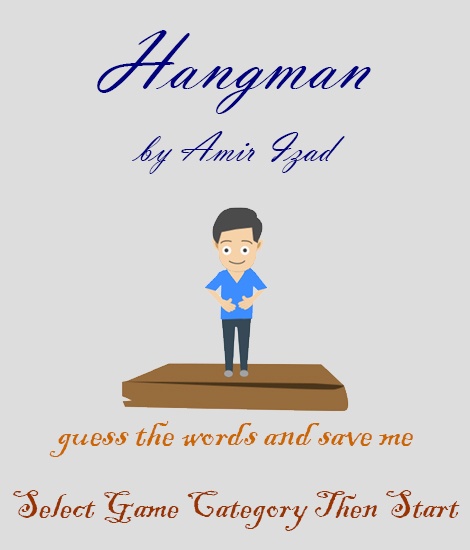
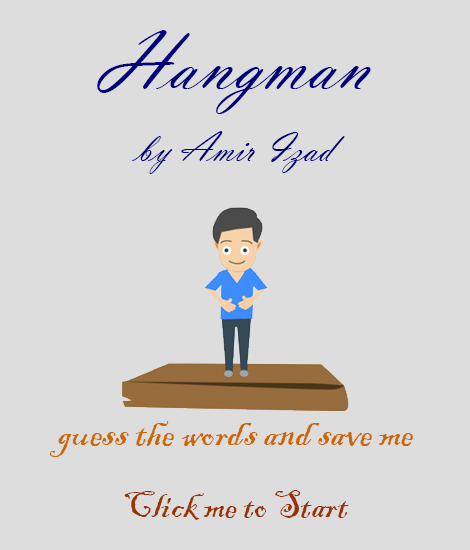
Correct files uploaded

Changed region(s): [[0.0298, 0.8964, 0.8043, 0.9582], [0.834, 0.8964, 0.983, 0.9582]]

diff --git a/assets/js/game.js b/assets/js/game.js
@@ -2,89 +2,85 @@ var HangMan = new Object();
 var curObjName = new String();
 
 $(window).on('load', function () {
-	curObjName = $('#category').val();
-	$('#curobj').val(curObjName);
+	
 	createObjects();
 
+	$('#hangmanintro').click(function(){
+		$('#wordpanel').removeClass('hide');
+	});
+	
 	//change the category
 	$('#category').change(function() {
-		curObjName = $('#category').val();
-		$('#curobj').val(curObjName);		
+		updateCat();	
 		loadObject(curObjName);
 	});
 
 	//Click the start button listener
-	$('#startbtn').on('click',function(event){
-		if($(this).val() === 'start'){
-			$("#curobj").val(curObjName);
-			$(this).html('Restart');
-			$(this).val('restart');			
-		}else{
-			clearObject(objectName);
-		}
-		updateObject(curObjName);
+	$('#restartbtn').click(function(event){
+		setObject(curObjName);
+		loadObject(curObjName);
 		event.preventDefault();		
 	});
 
-	$('#next').on('click',function(event){
+	$('#nextbtn').click(function(event){
 		updateObject(curObjName);
 		event.preventDefault();		
 	});	
 
+	
 	//keybord key listener
-	$(document).keyup(function(event){
-		var obj = HangMan[curObjName];
+	$(document).on('keyup', function(event){
 		var curLetter = event.key.toLowerCase();
-		obj.geusses.push(curLetter);
-		var guessStatus = updateGuesses(obj.word , curLetter , obj.falseg.length);
-		if(guessStatus){
-			obj.trueg.push(curLetter);
+		var obj = HangMan[curObjName];
+		if ( event.which < 65 || event.which > 90) {
+			legKey = false;
 		}else{
-			obj.falseg.push(curLetter);
+			for( i = 0 ; i < obj.guesses.length ; i++){
+				if(curLetter === obj.guesses[i]){legKey = false};
+			};
 		};
-		var status = updateStatus(obj.word, obj.trueg.length , obj.falseg.length);
-		if (status === 1){
-			obj.wins++;
-		}else if (status === 0){
-			obj.loses++;
-		};
-	}).keydown(function(event){
-		var curLetter = event.key.toLowerCase();
-		var usedLetter = false;
-		var obj = HangMan[curObjName];
-		if (!obj.started){
-	    usedLetter = true;
-		}else if ( event.which == 13 || event.which == 32) {
-		    usedLetter = true;
-		  }else{
-			  for(i=0;i<obj.geusses.length;i++){
-			  	if(curLetter === obj.geusses[i]){usedLetter = true};
-			  };
-			}
-
-	  if(usedLetter === true){
-	  	event.preventDefault();
-	  };		
-	});
+		if (legKey) {
+			var obj = HangMan[curObjName];
+			var curLetter = event.key.toLowerCase();
+			obj.guesses.push(curLetter);
+			var guessStatus = updateGuesses(obj.word , curLetter , obj.falseg.length);
+			if(guessStatus){
+				obj.trueg.push(curLetter);
+			}else{
+				obj.falseg.push(curLetter);
+			};
+			var status = updateStatus(obj.word, obj.trueg.length , obj.falseg.length);
+			if (status === 1){
+				obj.wins++;
+				$('#wins').html($('#wins').html()+1)
+			}else if (status === 0){
+				obj.loses++;
+				$('#loses').html($('#wins').html()+1)
+			};
+		}; 
+	});		
 });
 
 var namesArr = ['ava', 'Rey', 'Jona', 'John', 'Edgar', 'Brayan', 'Leonel', 'Garnet', 'Garland', 'Susannah'];
 var colorsArr = ['red', 'blue', 'aqua', 'lime', 'black', 'white', 'maroon', 'orange', 'purple', 'fuchsia'];
 var statesArr = ['ohio', 'iowa', 'idaho', 'texas', 'alaska', 'oregon', 'vermont', 'wyoming', 'delaware', 'maryland'];
-
-
+var categories = ['namesObj', 'colorsObj','statesObj'];
+var legKey = true;
 var gameObj = {
-	started : false,
-  words : [],
+	words : [],
 	category : "",
 	word : "",
 	wins : 0,
 	loses : 0,
 	lives : 10,
-	geusses : [],
+	guesses : [],
 	trueg : [],
 	falseg : []
+};
 
+function updateCat(){
+	curObjName = $('#category').val();
+	$('#curobj').val(curObjName);		
 }
 
 //Creating objects for all categories
@@ -95,89 +91,95 @@ function createObjects(){
 	HangMan.namesObj.words = namesArr;
 	HangMan.colorsObj.words = colorsArr;
 	HangMan.statesObj.words = statesArr;
-	updateObject(curObjName);	
+	setObject('namesObj');
+	setObject('colorsObj');
+	setObject('statesObj');
+	var catIndex = Math.floor(Math.random() * categories.length);
+	$('#category option:eq(' + catIndex + ')').prop('selected', true)
+	updateCat();
+	loadObject(categories[catIndex]);
 };
 
-function clearObject(objectName){
+function setObject(objectName){
 	var obj = HangMan[objectName];
-	obj.started = true;
-	obj.category = $( "#category option:selected" ).text();;
+	obj.category = $('#category option[value=' + objectName + ']').text();
 	obj.word = obj.words[Math.floor(Math.random() * obj.words.length)].toLowerCase();
 	obj.wins = 0;
 	obj.loses = 0;
 	obj.lives = 10;
-	obj.geusses = [];
+	obj.guesses = [];
 	obj.trueg = [];
 	obj.falseg = [];
-	loadObject(objectName);
 };
 
 //Updating the current category object to next word
 function updateObject(objectName){
 	var obj = HangMan[objectName];
-	obj.started = true;
-	obj.category = $( "#category option:selected" ).text();
 	obj.word = obj.words[Math.floor(Math.random() * obj.words.length)].toLowerCase();
+	obj.lives = 10;
+	obj.guesses = [];
+	obj.trueg = [];
+	obj.falseg = [];
 	loadObject(objectName);
 };
 
 //Loading the current category object into the page
-function loadObject(newCat){
-	var obj = HangMan[newCat];
-	if(obj.started){
-		$('#startbtn').html('Restart').val('restart');
-	}else{
-		$('#startbtn').html('Start').val('start');
-	};
+function loadObject(objectName){
+	var obj = HangMan[objectName];
 	$('#catlabel').html($( "#category option:selected" ).text());
 	$('#word').html(loadWord(obj.word));
+	$('#letters').empty();
 	$('#letters').html(obj.word.length);
 	$('#wins').html(obj.wins);
 	$('#loses').html(obj.loses);
 	$('#remlive').html(obj.lives);
+	$('#guesses').empty();
+	$('.ilive').removeClass('off');
+	$('.hang').addClass('hide');
 };
 
 //Loading the word into the word panel
-	function loadWord(word){
-		var span = "";
-		for (i=0;i<word.length;i++){
-			span = span + '<span>_</span>';
-		}
-		return span;
-	};
+function loadWord(word){
+	var span = "";
+	for (i=0;i<word.length;i++){
+		span = span + '<span>_</span>';
+	}
+	return span;
+};
 
 
-	function updateGuesses(word,letter,falseg){
-	 	var index = word.indexOf(letter);
-	 	if (index){
-			$('#word span:nth-child(' + (index + 1) + ')').html(letter);
-			var lettersucceeded = document.getElementById("lettersucceeded");
-			lettersucceeded.play();
-			return true;
-	 	}else{
-	 		var font = '<font>'+ letter +'</font>';
-	 		$('#guesses').append(font);
-	 		if ( falseg < 9 ) {$('#hangman' + falseg).css('display','block')};
-	 		$('#live' + falseg).addClass('off');
-	 		var letterfailed = document.getElementById("letterfailed");
-	 		letterfailed.play();
-	 		return false;
-	 	}
-	};
+function updateGuesses(word,letter,falseg){
+ 	var index = word.indexOf(letter);
+ 	legKey = true;
+ 	if (index < 0){
+ 		var font = '<font>'+ letter +'</font>';
+ 		$('#guesses').append(font);
+ 		if ( falseg < 9 ) {$('#hangman' + falseg).removeClass('hide')};
+ 		$('#live' + falseg).addClass('off');
+ 		var letterfailed = document.getElementById("letterfailed");
+ 		letterfailed.play();
+ 		return false;
+ 	}else{
+		$('#word span:nth-child(' + (index + 1) + ')').html(letter);
+		var lettersucceeded = document.getElementById("lettersucceeded");
+		lettersucceeded.play();
+		return true;
+ 	}
+};
 
-	function updateStatus(word, trueg, falseg){
-		if (word.length === trueg){
-			$('#hangmanw').css('display','block');
-			$('#showword').html(word);
-			var wordsucceeded = document.getElementById("wordsucceeded");
-			wordsucceeded.play();
-			return 1;
-		}else if (word + 10 <= trueg + falseg){
-			$('#hangmanl').css('display','block');
-			var wordfailed = document.getElementById("wordfailed");
-			wordfailed.play();
-			return 0;
-		}else{
-			return -1;
-		}
-	};
+function updateStatus(word, trueg, falseg){
+	if (word.length === trueg){
+		$('#hangmanw').css('display','block');
+		$('#showword').html(word);
+		var wordsucceeded = document.getElementById("wordsucceeded");
+		wordsucceeded.play();
+		return 1;
+	}else if (word + 10 <= trueg + falseg){
+		$('#hangmanl').css('display','block');
+		var wordfailed = document.getElementById("wordfailed");
+		wordfailed.play();
+		return 0;
+	}else{
+		return -1;
+	}
+};

diff --git a/index.html b/index.html
@@ -14,38 +14,38 @@
     <div class="main">
       <div id="gamepanel">
           <img class="gameimg" id="hangmanintro" src="assets/images/hangman.jpg" alt="Hangman">
-          <img class="gameimg hide" id="hangman0" src="assets/images/hangman0.jpg" alt="Hangman">
-          <img class="gameimg hide" id="hangman1" src="assets/images/hangman1.jpg" alt="Hangman">
-          <img class="gameimg hide" id="hangman2" src="assets/images/hangman2.jpg" alt="Hangman">
-          <img class="gameimg hide" id="hangman3" src="assets/images/hangman3.jpg" alt="Hangman">
-          <img class="gameimg hide" id="hangman4" src="assets/images/hangman4.jpg" alt="Hangman">
-          <img class="gameimg hide" id="hangman5" src="assets/images/hangman5.jpg" alt="Hangman">
-          <img class="gameimg hide" id="hangman6" src="assets/images/hangman6.jpg" alt="Hangman">
-          <img class="gameimg hide" id="hangman7" src="assets/images/hangman7.jpg" alt="Hangman">
-          <img class="gameimg hide" id="hangman8" src="assets/images/hangman8.jpg" alt="Hangman">
-          <div id="hangmanl" class="hide">
+          <img class="gameimg hang hide" id="hangman0" src="assets/images/hangman0.jpg" alt="Hangman">
+          <img class="gameimg hang hide" id="hangman1" src="assets/images/hangman1.jpg" alt="Hangman">
+          <img class="gameimg hang hide" id="hangman2" src="assets/images/hangman2.jpg" alt="Hangman">
+          <img class="gameimg hang hide" id="hangman3" src="assets/images/hangman3.jpg" alt="Hangman">
+          <img class="gameimg hang hide" id="hangman4" src="assets/images/hangman4.jpg" alt="Hangman">
+          <img class="gameimg hang hide" id="hangman5" src="assets/images/hangman5.jpg" alt="Hangman">
+          <img class="gameimg hang hide" id="hangman6" src="assets/images/hangman6.jpg" alt="Hangman">
+          <img class="gameimg hang hide" id="hangman7" src="assets/images/hangman7.jpg" alt="Hangman">
+          <img class="gameimg hang hide" id="hangman8" src="assets/images/hangman8.jpg" alt="Hangman">
+          <div id="hangmanl" class="hang hide">
             <audio id="wordfailed" src="assets/sounds/failed2.wav"></audio>
             <img class="gameimg" id="hangman9a" src="assets/images/hangman9.jpg" alt="Hangman">
             <img class="gameimg" id="hangman9b" src="assets/images/hangman9.png" alt="Hangman">
             <img class="gameimg" id="hangman9c" src="assets/images/hangman9-.png" alt="Hangman">
             <img class="gameimg" id="hangman9d" src="assets/images/hangmanf.jpg" alt="Hangman">
           </div>
-          <div id="hangmanw" class="hide">
+          <div id="hangmanw" class="hang hide">
             <audio id="wordsucceeded" src="assets/sounds/succeed2.wav"></audio>
             <img class="gameimg " id="hangmanw1" src="assets/images/hangmanw.jpg" alt="Hangman">
             <span id="showword" class="blink_me"></span>
           </div>
 
       </div>
-      <form id="wordpanel">
-        <input type="hidden" id="curobj" name="curobj" value="">
+      <form id="wordpanel" class="hide">
+        <input type="hidden" id="curobj" name="curobj" value="namesObj">
         <p class="board">Category:
           <select id="category" name="category" class="frmctrl m1">
-            <option value="namesObj">Names</option>
-            <option value="colorsObj">Colors</option>
-            <option value="statesObj">US States</option>
+            <option id="namesobj" value="namesObj">Names</option>
+            <option id="colorsobj" value="colorsObj">Colors</option>
+            <option id="statesobj" value="statesObj">US States</option>
           </select>
-          <button id="startbtn" name="startbtn" value="start" class="frmctrl">Start</button>
+          <button id="restartbtn" type="button" value="restart" class="frmctrl">Restart</button>
         </p>
         <hr class="hr-h">
         <audio id="lettersucceeded" src="assets/sounds/succeed1.wav"></audio>
@@ -67,9 +67,9 @@
         <hr class="hr-h">
         <p class="board"><font>Wins:</font><span class="m1" id="wins">0</span><font class="m3">Loses:</font><span class="m1" id="loses">0</span></p>
         <hr class="hr-h">
-        <p class="board"><font>Category:</font><span class="m1" id="catlabel">name</span><font class="m3" id="lettercounter">(<font id="letters">3</font>&nbsp;Letters)</font></p>
+        <p class="board"><font>Category:</font><span class="m1" id="catlabel">name</span><font class="m3">(<font id="letters"></font>&nbsp;Letters)</font></p>
         <p>
-          <button id="nextbtn" name="nextbtn" value="next" class="frmctrl">Next</button>
+          <button id="nextbtn" type="button" value="next" class="frmctrl">Next</button>
         </p>
       </form>
     </div>

diff --git a/assets/css/style.css b/assets/css/style.css
@@ -140,7 +140,7 @@ html{
 font-family: 'Permanent Marker', cursive;*/
 @media only screen and (min-width: 1100px){
 	.main{
-		margin: 150px auto;
+		margin: 5% auto;
 		display: -webkit-inline-box;
 		display: -ms-inline-flexbox;
 		display: inline-flex;
@@ -193,9 +193,10 @@ font-family: 'Permanent Marker', cursive;*/
 		margin: 10px 0;		
 		font-size: 30px;
 		line-height: 35px;
+		padding-bottom: 0;		
 	}
 	.board{
-		padding: 15px 0;
+		padding: 10px 0;
 		font-size: 18px;
 		line-height: 20px;
 	}
@@ -288,4 +289,7 @@ font-family: 'Permanent Marker', cursive;*/
 
 @keyframes blinker {  
   50% { opacity: 0.1; }
+}
+button:disabled{
+	color: graytext;
 }
